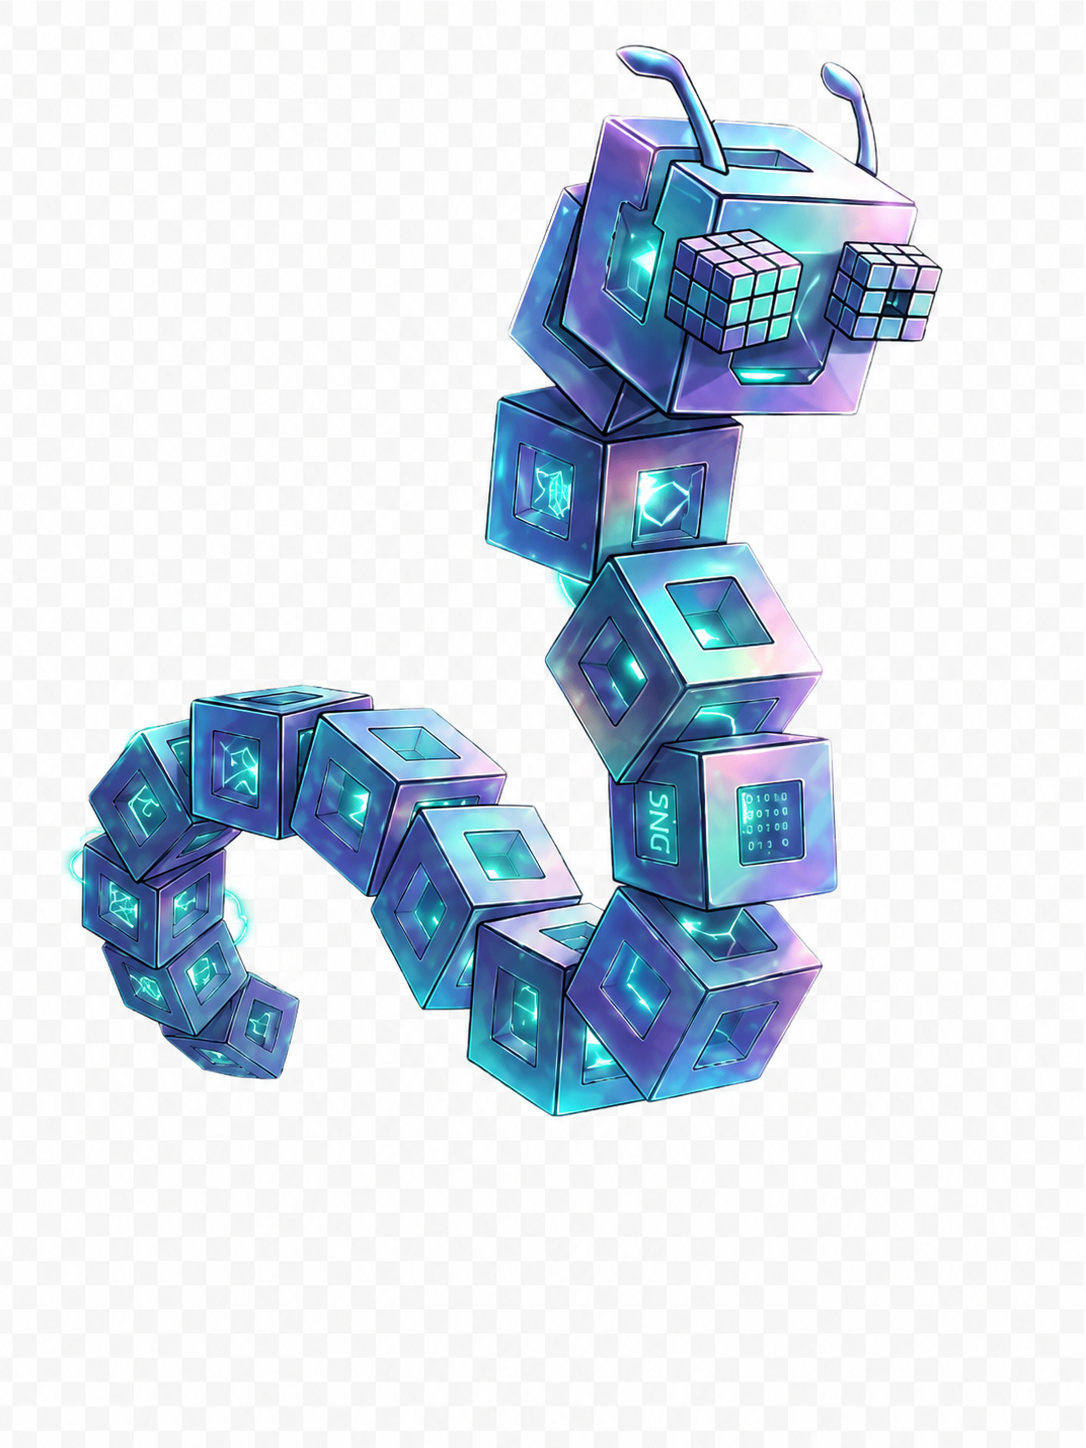
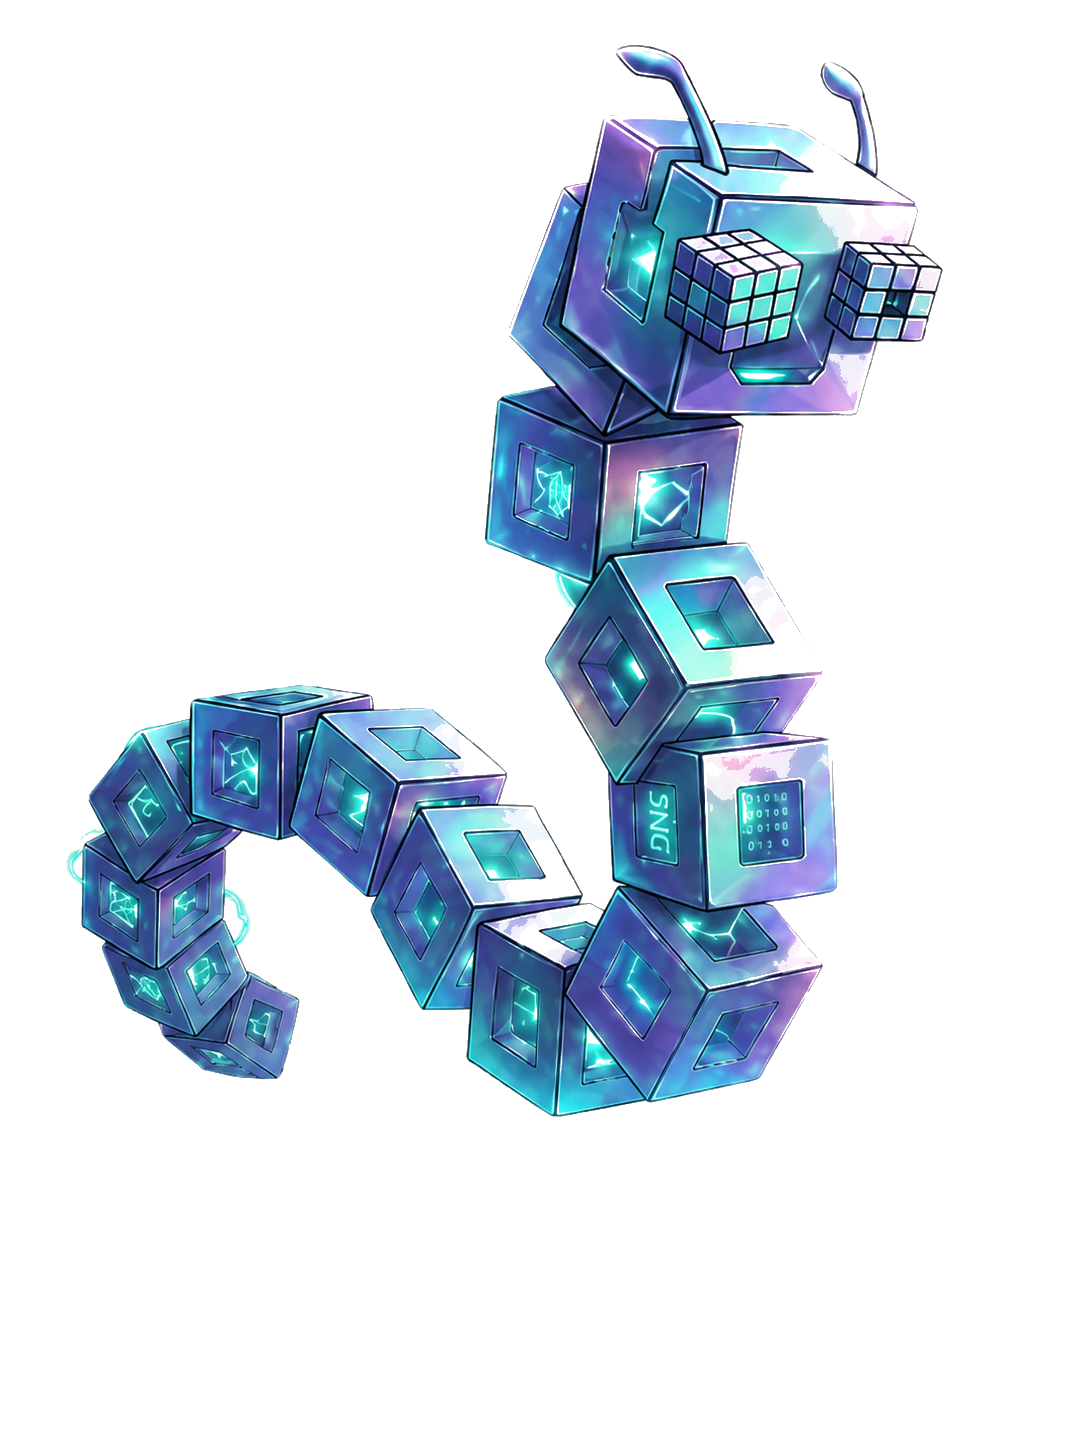
Fix Mobi transparency, disable antipodal cam by default in worm, add toggle btn
- Remove white background from Mobi.png using alpha channel processing
- Antipodal PiP camera no longer forces on when wormHealerMode is true
- Add ⊕ antipodal camera toggle button to worm HUD top bar (dims when off)
- Wire onToggleAntipodal/antipodalActive through HealerWormHUD → WormCrawlerHUD

https://claude.ai/code/session_01RtpUgnzakqEciHWyx4pqov

diff --git a/src/worm/WormCrawlerHUD.jsx b/src/worm/WormCrawlerHUD.jsx
@@ -743,7 +743,7 @@ function WinnerScreen({ wormBodyTiles, wormSessionOrbs, parityPoints, wormTimeAl
 
 // ─── Component ────────────────────────────────────────────────────────────────
 
-export default function WormCrawlerHUD({ phase, onFlippedTile, cubeSize: _cubeSize = 3, onHome, onSettings, wormAlive = true, showDeathMenu = false, deathDetails = null, onRetry, onNewGame }) {
+export default function WormCrawlerHUD({ phase, onFlippedTile, cubeSize: _cubeSize = 3, onHome, onSettings, onToggleAntipodal, antipodalActive = false, wormAlive = true, showDeathMenu = false, deathDetails = null, onRetry, onNewGame }) {
     const [isMinimized, setIsMinimized] = useState(false);
 
     // Reset minimize whenever a fresh death menu appears
@@ -834,6 +834,14 @@ export default function WormCrawlerHUD({ phase, onFlippedTile, cubeSize: _cubeSi
                 <div style={TOP_BAR_LEFT_STYLE}>
                     {onHome && <button onPointerDown={onHome} style={buttonBase} aria-label="Home">⌂</button>}
                     {onSettings && <button onPointerDown={onSettings} style={buttonBase} aria-label="Settings">⚙</button>}
+                    {onToggleAntipodal && (
+                      <button
+                        onPointerDown={onToggleAntipodal}
+                        style={{ ...buttonBase, opacity: antipodalActive ? 1 : 0.45, fontSize: 15 }}
+                        aria-label="Toggle Antipodal Camera"
+                        title="Antipodal Camera"
+                      >⊕</button>
+                    )}
                     <div style={{ lineHeight: 1.1 }}>
                         <div style={STATUS_LABEL_STYLE}>WORM STATUS</div>
                         <div style={phaseNameStyle}>{phaseMeta.label}</div>

diff --git a/src/components/overlays/HealerWormHUD.jsx b/src/components/overlays/HealerWormHUD.jsx
@@ -6,7 +6,7 @@ import { useGameStore } from '../../hooks/useGameStore.js';
 import { useShallow } from 'zustand/react/shallow';
 import WormCrawlerHUD from '../../worm/WormCrawlerHUD.jsx';
 
-export default function HealerWormHUD({ onHome, onSettings, onRetry, onNewGame }) {
+export default function HealerWormHUD({ onHome, onSettings, onToggleAntipodal, antipodalActive, onRetry, onNewGame }) {
     const { wormHealerMode, wormPhase, wormOnFlippedTile, size, wormAlive, showWormDeathMenu, wormDeathDetails } = useGameStore(
         useShallow(s => ({
             wormHealerMode: s.wormHealerMode,
@@ -28,6 +28,8 @@ export default function HealerWormHUD({ onHome, onSettings, onRetry, onNewGame }
             cubeSize={size}
             onHome={onHome}
             onSettings={onSettings}
+            onToggleAntipodal={onToggleAntipodal}
+            antipodalActive={antipodalActive}
             wormAlive={wormAlive}
             showDeathMenu={showWormDeathMenu}
             deathDetails={wormDeathDetails}

diff --git a/src/components/UILayer.jsx b/src/components/UILayer.jsx
@@ -249,7 +249,7 @@ export default function UILayer({
         {(!wormHealerMode && (chaosMode || disparityWinner)) && <DisparityHUD />}
 
         {/* Healer Worm HUD Overlay */}
-        <HealerWormHUD onHome={onBackToMainMenu} onSettings={() => setShowSettings(true)} onRetry={onWormRetry} onNewGame={onWormNewGame} />
+        <HealerWormHUD onHome={onBackToMainMenu} onSettings={() => setShowSettings(true)} onToggleAntipodal={onToggleAntipodalPiP} antipodalActive={showAntipodalPiP} onRetry={onWormRetry} onNewGame={onWormNewGame} />
         {/* Möbius Band HUD — shows topology of active wormhole during tunnel traversal */}
         <MobiusHUD />
 

diff --git a/src/App.jsx b/src/App.jsx
@@ -355,7 +355,7 @@ export default function WORM3() {
   const wormholePhaseActive = wormHealerMode && (
     wormPhase === 'entering' || wormPhase === 'tunnel' || wormPhase === 'exiting'
   );
-  const showAntipodalFrame = !showWelcome && ((showAntipodalPiP || wormHealerMode) && !wormholePhaseActive);
+  const showAntipodalFrame = !showWelcome && (showAntipodalPiP && !wormholePhaseActive);
 
   // Bottom sheet state for new nav bar
   const [sheetOpen, setSheetOpen] = useState(false);
